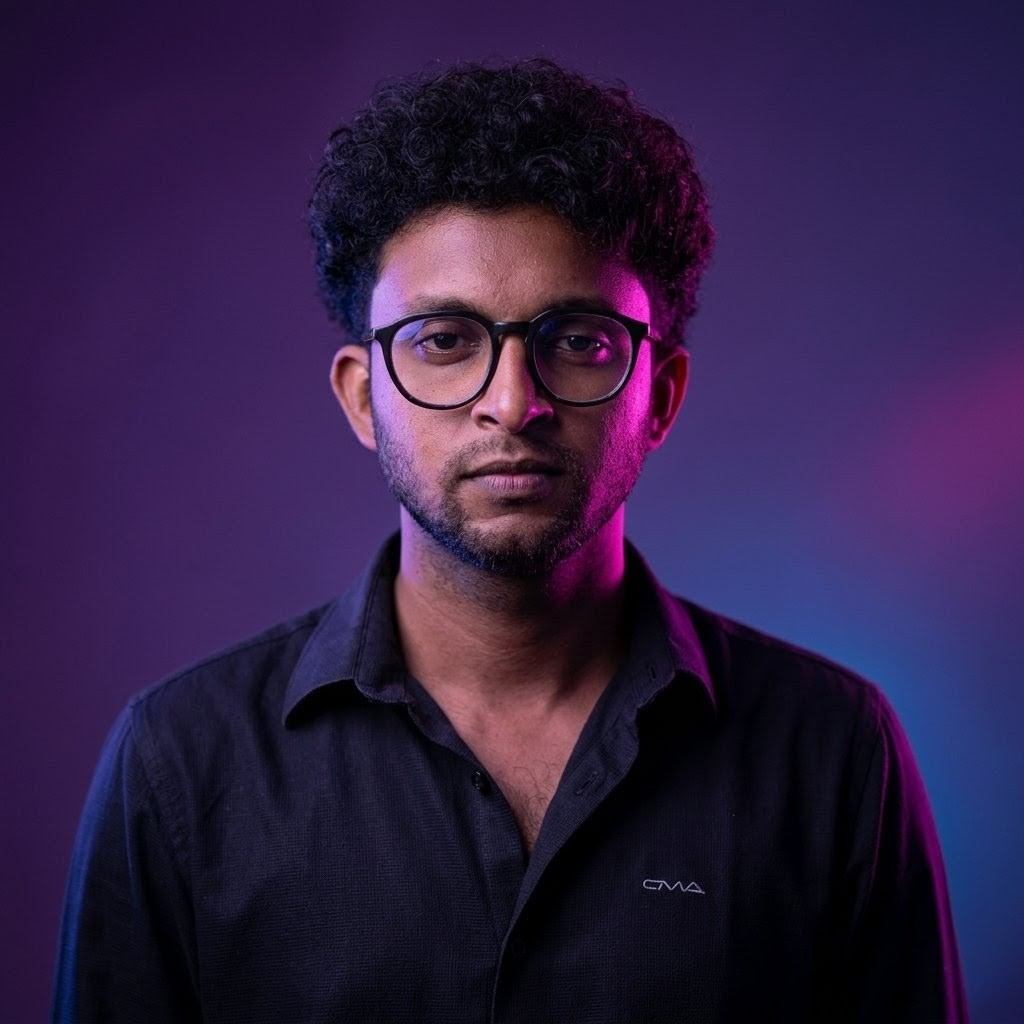
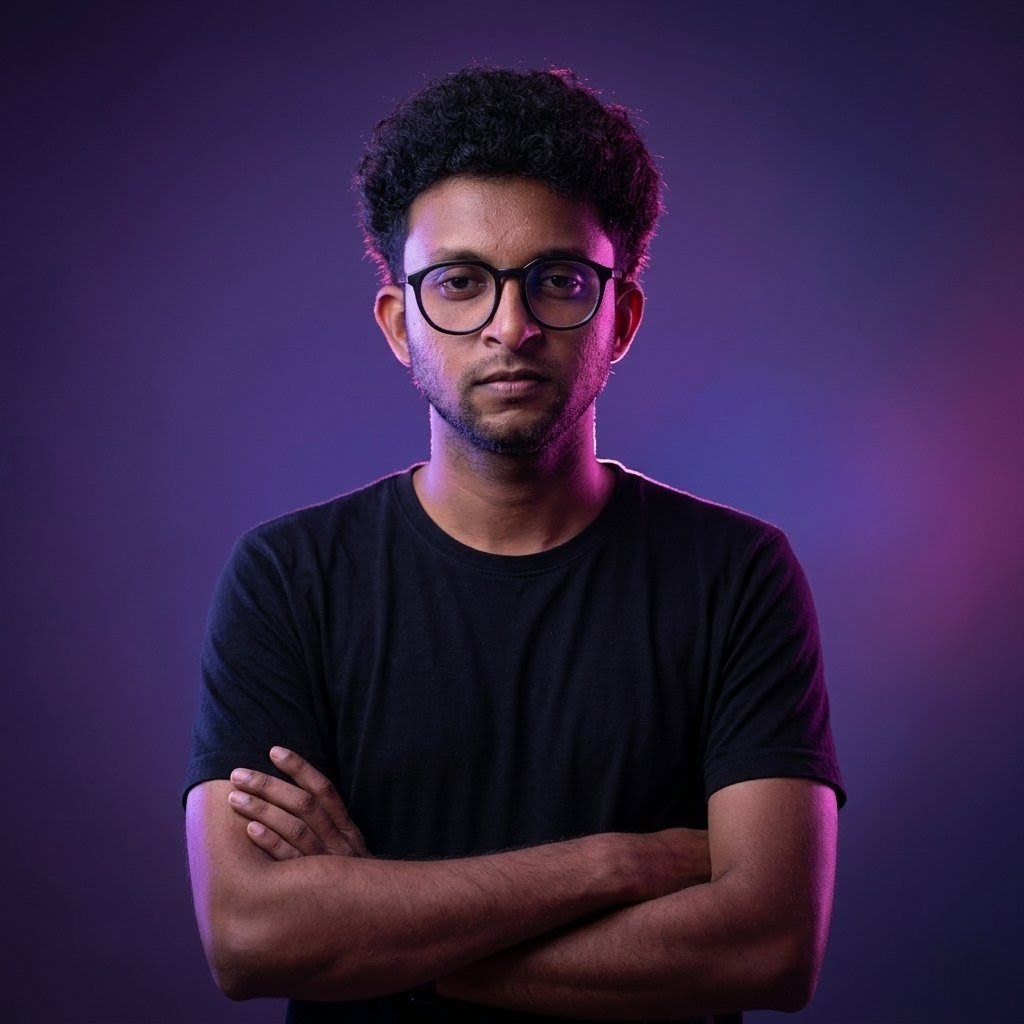
Updated portfolio section with new project details and styling adjustments

diff --git a/src/components/Portfolio.js b/src/components/Portfolio.js
@@ -17,6 +17,27 @@ export default function Portfolio() {
 
       <div className="portfolio-container">
         <div className="portfolio-box">
+          <img src={eCom} alt="Velmora Ecommerce Store" />
+
+          <div
+            className="portfolio-layer"
+            onClick={() => {
+              handleRedirect("https://velmora-ecommerce-topaz.vercel.app/");
+            }}
+          >
+            <h4>Velmora Ecommerce Store — MERN Stack</h4>
+            __________________________________________
+            <p>
+              Designed and deployed an in-progress full-stack ecommerce platform
+              with authentication, product search, cart management, order flow,
+              password reset, and Stripe payment integration using the MERN
+              stack, JWT, Redux Toolkit, MongoDB Atlas, and Vercel.
+            </p>
+
+            <i className="fa-solid fa-up-right-from-square"></i>
+          </div>
+        </div>
+        <div className="portfolio-box">
           <img src={notesApp} alt="portfolio" />
           <div
             className="portfolio-layer"
@@ -57,7 +78,7 @@ export default function Portfolio() {
             className="portfolio-layer"
             onClick={() => {
               handleRedirect(
-                "https://docs.google.com/document/d/1UCfXeywmpd80P9CvX802gResril6QjbqHRJGGmBTcR8/edit?usp=sharing"
+                "https://docs.google.com/document/d/1UCfXeywmpd80P9CvX802gResril6QjbqHRJGGmBTcR8/edit?usp=sharing",
               );
             }}
           >
@@ -88,24 +109,6 @@ export default function Portfolio() {
               user experience.
             </p>
             <i className="fa-solid fa-up-right-from-square"></i>
-          </div>
-        </div>
-        <div className="portfolio-box">
-          <img src={eCom} alt="portfolio" />
-          <div className="portfolio-layer" onClick={() => {}}>
-            <h4>Velmora: Full-Stack E-commerce Store</h4>
-            __________________________________________
-            <p className="onProcess">ON PROCESS</p>
-            {/* <i className="fa-solid fa-up-right-from-square"></i> */}
-          </div>
-        </div>
-        <div className="portfolio-box">
-          <img src={eGem} alt="portfolio" />
-          <div className="portfolio-layer" onClick={() => {}}>
-            <h4>Essus GEM: Full-Stack Gem Store</h4>
-            __________________________________________
-            <p className="onProcess">ON PROCESS</p>
-            {/* <i className="fa-solid fa-up-right-from-square"></i> */}
           </div>
         </div>
       </div>

diff --git a/src/App.css b/src/App.css
@@ -52,10 +52,9 @@ section {
 }
 
 .onProcess {
-  color: green;
-  font-weight: 900 !important;
-  font-size: 1.8rem !important;
-
+  color: #fbbf24 !important;
+  font-weight: 800;
+  letter-spacing: 1px;
 }
 
 .navbar a {
@@ -83,7 +82,7 @@ section {
 }
 
 .home-content {
-  padding-right: 10px;
+  padding-right: 20px;
 }
 
 .home-content h3 {
@@ -284,7 +283,10 @@ span {
   left: 0;
   width: 100%;
   height: 100%;
-  background: linear-gradient(rgba(0, 0, 0, 0.4), var(--main-color));
+  background: linear-gradient(
+    rgba(18, 8, 32, 0.82),
+    rgba(88, 28, 135, 0.9)
+  );
   display: flex;
   justify-content: center;
   align-items: center;
@@ -300,13 +302,16 @@ span {
 }
 
 .portfolio-layer h4 {
-  font-size: 2.5rem;
+  font-size: 2.2rem;
+  margin-bottom: 0.1rem;
+  color: #ffffff;
 }
 
 .portfolio-layer p {
   font-size: 1.5rem;
-  margin: 0.6rem 0 2rem;
+  margin: 1.5rem 0 2rem;
   font-weight: 700;
+  color: #f3f4f6;
 }
 
 .portfolio-layer a {
@@ -319,9 +324,12 @@ span {
   border-radius: 50%;
 }
 
-.portfolio-layer a i {
+.portfolio-layer i {
   font-size: 2rem;
-  color: var(--snd-bg-color);
+  color: #ffffff;
+  background: rgba(255, 255, 255, 0.15);
+  padding: 1rem;
+  border-radius: 50%;
 }
 
 .contact h2 {